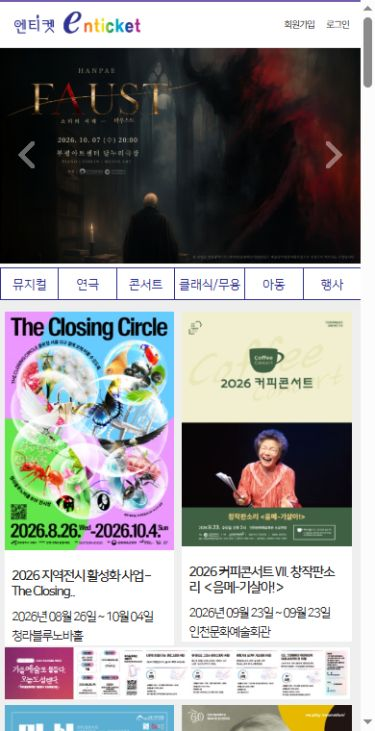
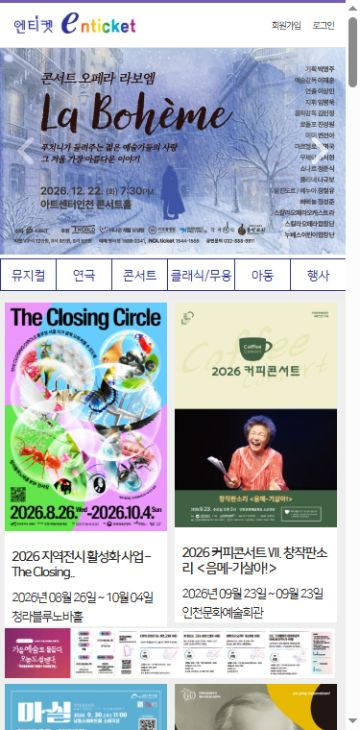
모바일 예매 캡처를 밝은 라보엠 배너 화면으로 교체

diff --git a/index.html b/index.html
@@ -7,7 +7,7 @@
       <li><strong><span class="nt-count" data-count="22">22</span><small>년</small></strong><span>서비스 운영</span></li>
     </ul>
   </section></div><div class="hero-actions"><a class="button" href="#contact">사업 제휴 및 대행 문의 ↗</a><a class="button secondary" href="#services">사업영역 보기 ↓</a></div></div><div class="hero-visual"><img src="assets/images/mission.jpg" alt="인천 야외 공연장의 무대와 관객" fetchpriority="high" width="1920" height="1080"><div class="visual-caption" style="bottom: 28px;"><span>인천의 무대가 열리는 곳마다</span><strong>엔티켓이 함께 합니다.</strong></div></div></div></section>
-<section class="brand-overview" aria-label="세 개의 브랜드"><div class="container brand-overview-grid"><a href="#services"><span>01 / TICKETING & CULTURE</span><strong>엔티켓</strong><p>티켓예매 · 공연기획 · 행사대행</p><i aria-hidden="true">↗</i></a><a href="design.html"><span>02 / DESIGN</span><strong>엔디자인</strong><p>디자인 · 홈페이지 제작</p><i aria-hidden="true">↗</i></a><a href="media.html"><span>03 / MEDIA</span><strong>엔미디어</strong><p>영상제작 · 행사중계</p><i aria-hidden="true">↗</i></a></div></section><section class="section" id="about"><div class="container"><div class="section-title"><div><p class="eyebrow">Company Introduction</p><h2>2004년부터 이어온 인천 문화예술의 살아있는 역사</h2></div><p>낙후된 아날로그식 공연 환경을 디지털 혁신으로 전환하며,<br> 시민과 공연장을 잇는 든든한 가교가 되어왔습니다.</p></div><div class="about-grid"><div class="about-statement has-mobile-screen"><div class="mobile-showcase"><a class="phone-mockup" href="https://www.enticket.com:469/m/" target="_blank" rel="noopener" aria-label="엔티켓 모바일 예매 사이트 열기"><span class="phone-speaker" aria-hidden="true"></span><span class="phone-screen"><img src="assets/images/enticket-mobile-screen.png" alt="엔티켓 모바일 예매 화면: 상단 로고, 공연 배너, 장르 메뉴와 공연 포스터" loading="lazy" width="375" height="760"></span></a><a class="mobile-screen-link" href="https://www.enticket.com:469/m/" target="_blank" rel="noopener">엔티켓 모바일 예매 ↗</a></div><blockquote>"2007년부터 인천문화예술회관 공식 예매처로서 전 공연 판매대행 및 서해구문화회관, 학생문화회관, 평생학습관 기획·발권을 성공적으로 총괄하고 있습니다."</blockquote></div><div class="about-points"><article><span>01</span><div><p class="pillar-label">디지털 티케팅 혁신</p><h3>아날로그 수기예매에서 실시간 디지털 시스템으로</h3><p>2004년 설립 초기, 수기 전화 예매 위주였던 인천 지역 공연시장을 인터넷 실시간 좌석선택 방식으로 개편하여<br>관객 편의성을 극대화하고 티켓 발권 투명성을 확립했습니다.</p></div></article><article><span>02</span><div><p class="pillar-label">자체 및 합작 초대형 공연기획</p><h3>유명 콘서트·페스티벌 및 연극제 성공 운영</h3><p>윤종신 콘서트, FT아일랜드 콘서트(부천체육관), 박상민 콘서트(삼산월드체육관), 전국연극제, 인천영화제,<br>펜타포트 락 페스티벌 등 메가 이벤트의 공동기획·홍보와 좌석판매 노하우를 축적했습니다.</p></div></article><article><span>03</span><div><p class="pillar-label">전문 하우스 어셔 &amp; 현장인력</p><h3>공연장 진행 도우미 교육 및 숙련 인력 파견</h3><p>공연 운영이 미숙한 주최사를 위해 체계적인 CS/안전 교육을 이수한 전문 하우스 어셔와 검표·수표 인력을 현장 지원하여 격조 높은 공연 관람 환경을 조성합니다.</p></div></article></div></div></div></section>
+<section class="brand-overview" aria-label="세 개의 브랜드"><div class="container brand-overview-grid"><a href="#services"><span>01 / TICKETING & CULTURE</span><strong>엔티켓</strong><p>티켓예매 · 공연기획 · 행사대행</p><i aria-hidden="true">↗</i></a><a href="design.html"><span>02 / DESIGN</span><strong>엔디자인</strong><p>디자인 · 홈페이지 제작</p><i aria-hidden="true">↗</i></a><a href="media.html"><span>03 / MEDIA</span><strong>엔미디어</strong><p>영상제작 · 행사중계</p><i aria-hidden="true">↗</i></a></div></section><section class="section" id="about"><div class="container"><div class="section-title"><div><p class="eyebrow">Company Introduction</p><h2>2004년부터 이어온 인천 문화예술의 살아있는 역사</h2></div><p>낙후된 아날로그식 공연 환경을 디지털 혁신으로 전환하며,<br> 시민과 공연장을 잇는 든든한 가교가 되어왔습니다.</p></div><div class="about-grid"><div class="about-statement has-mobile-screen"><div class="mobile-showcase"><a class="phone-mockup" href="https://www.enticket.com:469/m/" target="_blank" rel="noopener" aria-label="엔티켓 모바일 예매 사이트 열기"><span class="phone-speaker" aria-hidden="true"></span><span class="phone-screen"><img src="assets/images/enticket-mobile-screen.png?v=bright-banner" alt="엔티켓 모바일 예매 화면: 상단 로고, 공연 배너, 장르 메뉴와 공연 포스터" loading="lazy" width="375" height="760"></span></a><a class="mobile-screen-link" href="https://www.enticket.com:469/m/" target="_blank" rel="noopener">엔티켓 모바일 예매 ↗</a></div><blockquote>"2007년부터 인천문화예술회관 공식 예매처로서 전 공연 판매대행 및 서해구문화회관, 학생문화회관, 평생학습관 기획·발권을 성공적으로 총괄하고 있습니다."</blockquote></div><div class="about-points"><article><span>01</span><div><p class="pillar-label">디지털 티케팅 혁신</p><h3>아날로그 수기예매에서 실시간 디지털 시스템으로</h3><p>2004년 설립 초기, 수기 전화 예매 위주였던 인천 지역 공연시장을 인터넷 실시간 좌석선택 방식으로 개편하여<br>관객 편의성을 극대화하고 티켓 발권 투명성을 확립했습니다.</p></div></article><article><span>02</span><div><p class="pillar-label">자체 및 합작 초대형 공연기획</p><h3>유명 콘서트·페스티벌 및 연극제 성공 운영</h3><p>윤종신 콘서트, FT아일랜드 콘서트(부천체육관), 박상민 콘서트(삼산월드체육관), 전국연극제, 인천영화제,<br>펜타포트 락 페스티벌 등 메가 이벤트의 공동기획·홍보와 좌석판매 노하우를 축적했습니다.</p></div></article><article><span>03</span><div><p class="pillar-label">전문 하우스 어셔 &amp; 현장인력</p><h3>공연장 진행 도우미 교육 및 숙련 인력 파견</h3><p>공연 운영이 미숙한 주최사를 위해 체계적인 CS/안전 교육을 이수한 전문 하우스 어셔와 검표·수표 인력을 현장 지원하여 격조 높은 공연 관람 환경을 조성합니다.</p></div></article></div></div></div></section>
 <section class="section canvas" id="services"><div class="container"><div class="section-title"><div><p class="eyebrow">COMPREHENSIVE SERVICES</p><h2>기획부터 티켓팅, 제작, 현장운영까지 원스톱 솔루션</h2></div><p>4대 핵심 역량을 통해 지자체 축제와<br>공연 프로젝트의 성공을 완벽히 보장합니다.</p></div><div class="service-grid"><article class="service-card reveal"><div class="card-top"><span>01. TICKETING &amp; SYSTEM</span></div><h3>티켓 예매 및 발권 대행</h3><p>엔티켓 고유의 다채널 발권 연동.<br>(PC 웹, 모바일, 전용 콜센터, 현장 발권 부스)</p><ul><li>실시간 전좌석 지정 예매 솔루션</li><li>기획사 전용 공연 등록·관리</li><li>공공기관/기업 복지 폐쇄몰 연동</li></ul><a class="text-link" href="#contact">엔티켓 발권 제휴 알아보기 <span aria-hidden="true">↗</span></a></article><article class="service-card reveal"><div class="card-top"><span>02. EVENT &amp; FESTIVAL</span></div><h3>공연 기획 &amp; 행사 대행</h3><p>대규모 시민문화축제부터 전문 공연예술제, 기업 문화행사까지 총괄 대행 및 주관.</p><ul><li>지자체 대형 시민축제 총괄 주관</li><li>전국생활체육대축전 등 공공행사</li><li>전 좌석 조기 매진 프로모션 역량</li></ul><a class="text-link" href="#portfolio">주관 실적 확인하기 <span aria-hidden="true">↗</span></a></article><article class="service-card reveal"><div class="card-top"><span>03. PROMOTION &amp; DESIGN</span></div><h3>공연 홍보 &amp; 그래픽 디자인</h3><p>인천 지역 15만 관객 데이터베이스를 직접 타깃팅하는 독점적 마케팅 파워.</p><ul><li>장르 선호도 기반 타깃 DB 마케팅</li><li>카카오톡/문자/포털 배너 노출</li><li>포스터/리플렛/현수막 원스톱 출력</li></ul><a class="text-link" href="https://enticket.kr/#portfolio-design">디자인 인쇄 포트폴리오 <span aria-hidden="true">↗</span></a></article><article class="service-card reveal"><div class="card-top"><span>04. BROADCAST &amp; MEDIA</span></div><h3>영상 제작 &amp; 생중계 미디어</h3><p>13년차 전문 프로듀서와 음향·조명·영상 스태프진이 선사하는 무대 영상미.</p><ul><li>유튜브/포털 실시간 고화질 다원 생중계</li><li>공연 하이라이트/홍보 티저 영상 제작</li><li>현장 LED 스크린 무대 영상 연출</li></ul><a class="text-link" href="#contact">영상 솔루션 문의 <span aria-hidden="true">↗</span></a></article></div></div></section>
 
 
